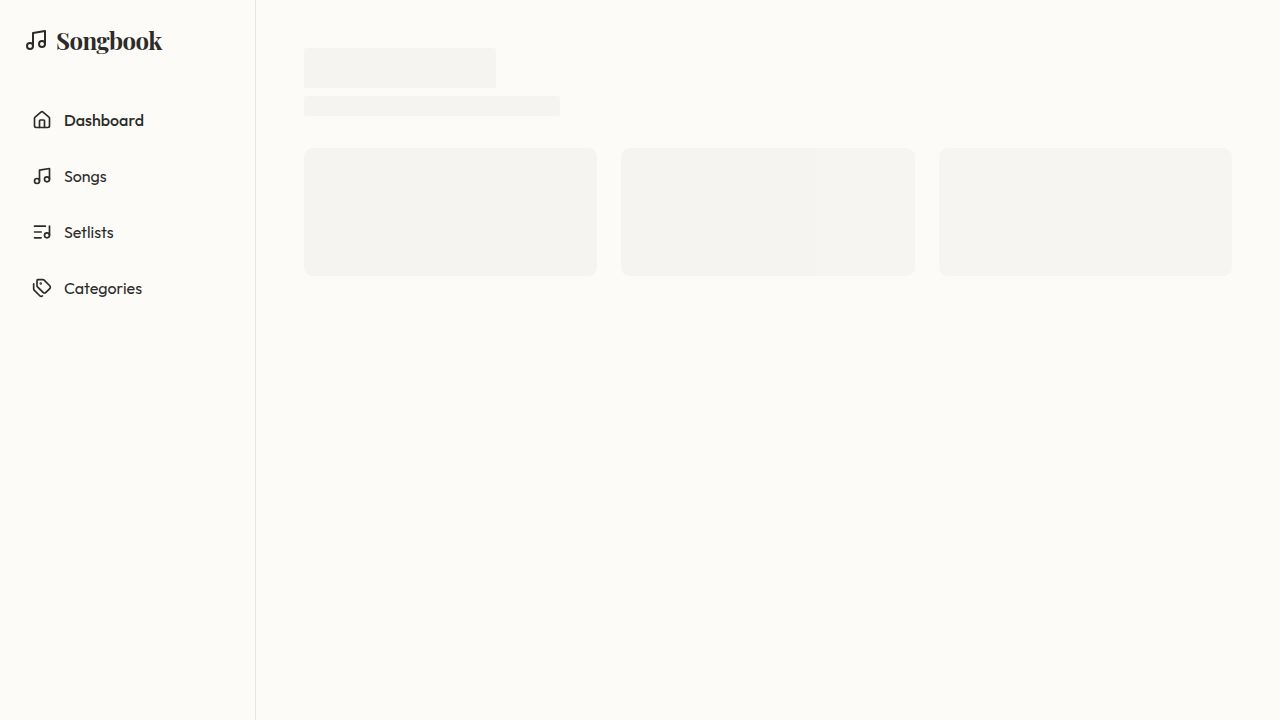
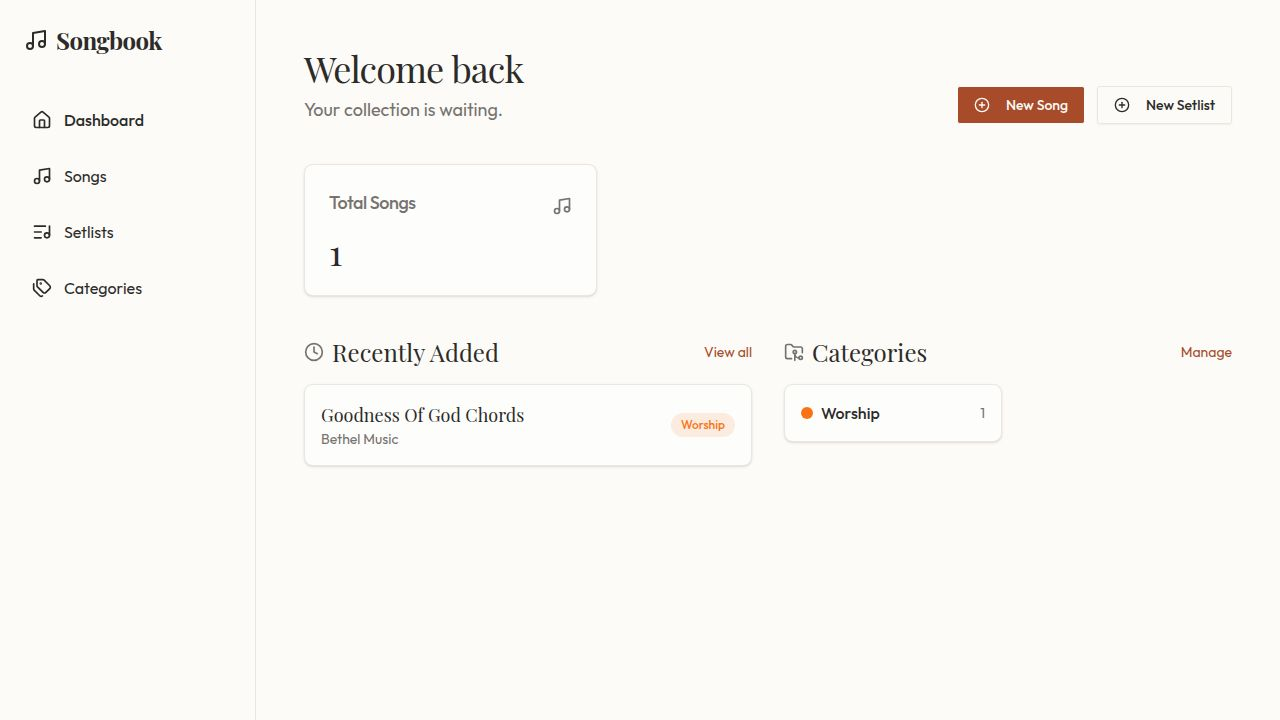
Improve transpose control styling and update Vite configuration
Update the TransposeControl component with new styling and buttons, and modify vite.config.ts to include HMR settings for WebSocket connections.

Replit-Commit-Author: Agent
Replit-Commit-Session-Id: f0354c92-c207-43fd-b8c0-db73807823cd
Replit-Commit-Checkpoint-Type: full_checkpoint
Replit-Commit-Event-Id: 296d11f4-4a02-462a-8da0-21ec526eca93
Replit-Commit-Screenshot-Url: https://storage.googleapis.com/screenshot-production-us-central1/53478fd5-276d-4103-9ea6-fc69c7de00f2/f0354c92-c207-43fd-b8c0-db73807823cd/o9BZVnm
Replit-Helium-Checkpoint-Created: true

diff --git a/artifacts/songbook/src/components/transpose-control.tsx b/artifacts/songbook/src/components/transpose-control.tsx
@@ -1,6 +1,5 @@
 import { Minus, Plus, RotateCcw } from "lucide-react";
 import { Button } from "@/components/ui/button";
-import { Badge } from "@/components/ui/badge";
 
 interface TransposeControlProps {
   semitones: number;
@@ -9,53 +8,57 @@ interface TransposeControlProps {
 
 export function TransposeControl({ semitones, onChange }: TransposeControlProps) {
   const label =
-    semitones === 0 ? "Original" : semitones > 0 ? `+${semitones}` : `${semitones}`;
+    semitones === 0
+      ? "Original"
+      : semitones > 0
+      ? `+${semitones}`
+      : `${semitones}`;
 
   return (
     <div className="flex items-center gap-2">
-      <span className="text-xs text-muted-foreground font-mono uppercase tracking-wider">Transpose</span>
-      <div className="flex items-center gap-1 border border-border rounded-lg p-0.5 bg-background">
-        <Button
-          variant="ghost"
-          size="sm"
-          className="h-7 w-7 p-0"
+      <span className="text-xs font-semibold text-muted-foreground uppercase tracking-wider select-none">
+        Transpose
+      </span>
+      <div className="flex items-center rounded-md border border-border bg-secondary overflow-hidden">
+        <button
+          type="button"
           onClick={() => onChange(Math.max(-6, semitones - 1))}
           disabled={semitones <= -6}
           title="Down one semitone"
+          className="flex items-center justify-center w-8 h-8 border-r border-border hover:bg-secondary-foreground/10 disabled:opacity-40 transition-colors"
         >
           <Minus className="w-3.5 h-3.5" />
-        </Button>
+        </button>
 
-        <Badge
-          variant={semitones === 0 ? "secondary" : "default"}
-          className="min-w-[48px] justify-center text-xs font-mono px-2 py-0.5 rounded-md"
+        <span
+          className={`w-20 text-center text-sm font-semibold select-none py-1 ${
+            semitones !== 0 ? "text-primary" : "text-foreground/70"
+          }`}
         >
           {label}
-        </Badge>
+        </span>
 
-        <Button
-          variant="ghost"
-          size="sm"
-          className="h-7 w-7 p-0"
+        <button
+          type="button"
           onClick={() => onChange(Math.min(6, semitones + 1))}
           disabled={semitones >= 6}
           title="Up one semitone"
+          className="flex items-center justify-center w-8 h-8 border-l border-border hover:bg-secondary-foreground/10 disabled:opacity-40 transition-colors"
         >
           <Plus className="w-3.5 h-3.5" />
-        </Button>
+        </button>
       </div>
 
       {semitones !== 0 && (
-        <Button
-          variant="ghost"
-          size="sm"
-          className="h-7 px-2 text-muted-foreground hover:text-foreground"
+        <button
+          type="button"
           onClick={() => onChange(0)}
-          title="Reset to original"
+          title="Reset to original key"
+          className="flex items-center gap-1 text-xs text-muted-foreground hover:text-foreground transition-colors px-1"
         >
-          <RotateCcw className="w-3 h-3 mr-1" />
+          <RotateCcw className="w-3 h-3" />
           Reset
-        </Button>
+        </button>
       )}
     </div>
   );

diff --git a/artifacts/songbook/vite.config.ts b/artifacts/songbook/vite.config.ts
@@ -63,6 +63,10 @@ export default defineConfig({
     strictPort: true,
     host: "0.0.0.0",
     allowedHosts: true,
+    hmr: {
+      clientPort: 443,
+      protocol: "wss",
+    },
     fs: {
       strict: true,
     },